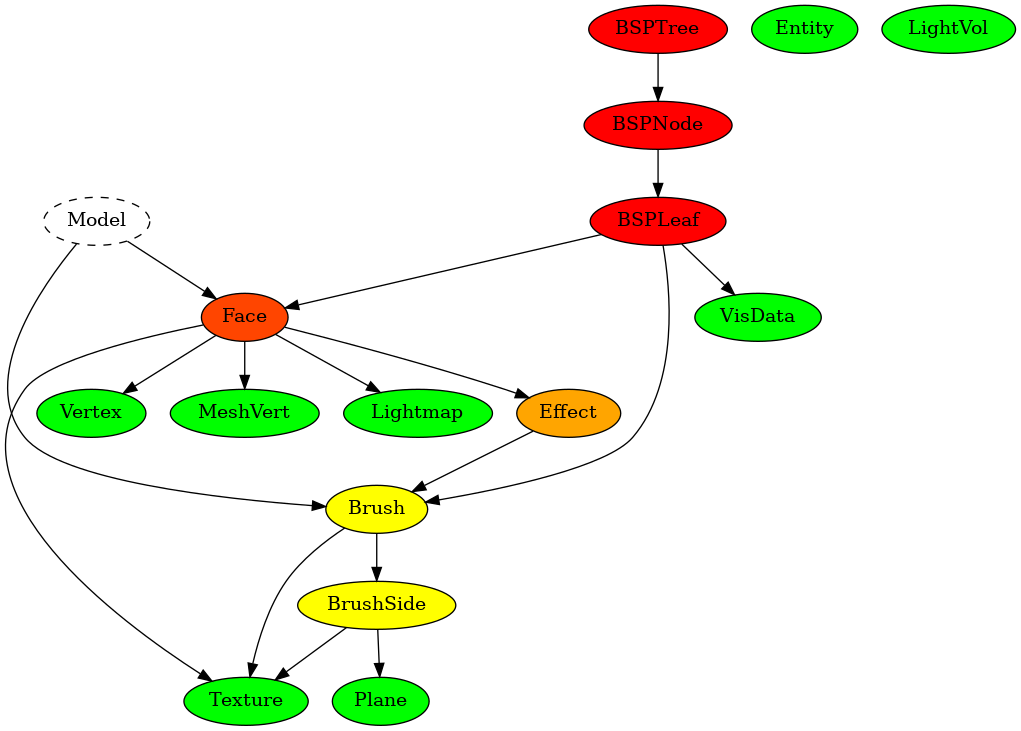
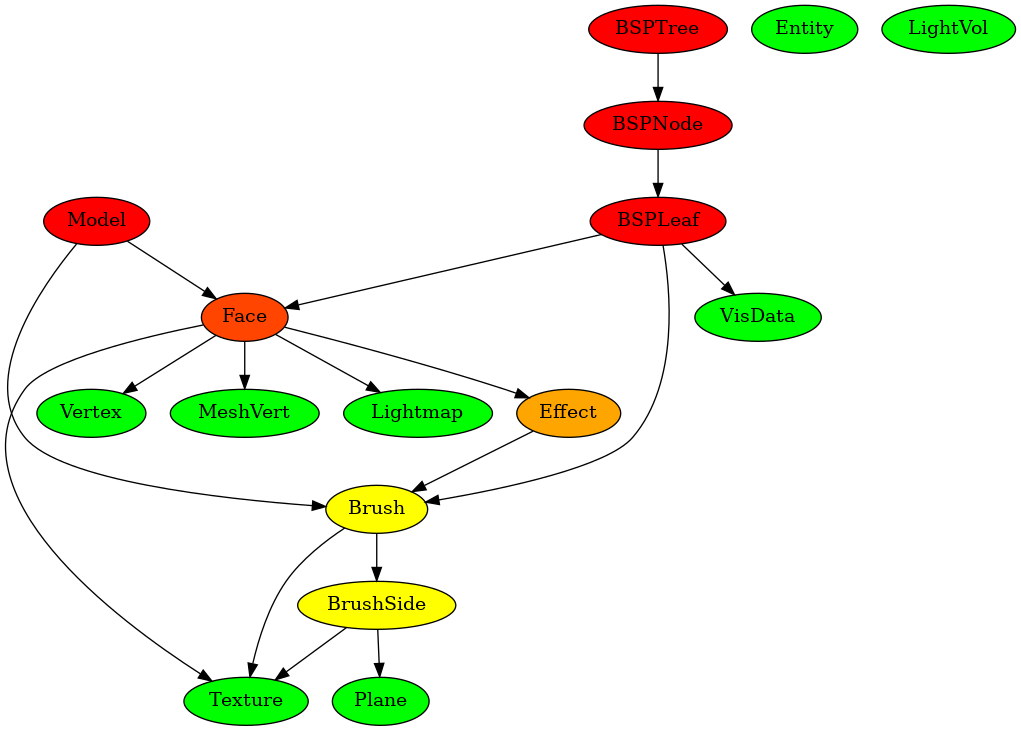
Add Model Lump parsing

Changed region(s): [[0.0304, 0.2709, 0.1518, 0.3611]]

diff --git a/src/lumps/models.rs b/src/lumps/models.rs
@@ -1,0 +1,90 @@
+// Copyright (C) 2019 Oscar Shrimpton
+// 
+// This file is part of rust_bsp.
+// 
+// rust_bsp is free software: you can redistribute it and/or modify
+// it under the terms of the GNU General Public License as published by
+// the Free Software Foundation, either version 3 of the License, or
+// (at your option) any later version.
+// 
+// rust_bsp is distributed in the hope that it will be useful,
+// but WITHOUT ANY WARRANTY; without even the implied warranty of
+// MERCHANTABILITY or FITNESS FOR A PARTICULAR PURPOSE.  See the
+// GNU General Public License for more details.
+// 
+// You should have received a copy of the GNU General Public License
+// along with rust_bsp.  If not, see <http://www.gnu.org/licenses/>.
+
+use super::faces::{Face, FaceLump};
+use super::brushes::{Brush, BrushesLump};
+use crate::types::{Vector3, Result, Error, TransparentNonNull};
+use super::helpers::slice_to_i32;
+
+const MODEL_SIZE: usize = (4 * 3 * 2) + (4 * 4);
+
+#[derive(Debug, Clone)]
+pub struct Model<'a> {
+    pub mins: Vector3,
+    pub maxs: Vector3,
+    pub faces: Box<[TransparentNonNull<Face<'a>>]>,
+    pub brushes: Box<[TransparentNonNull<Brush<'a>>]>
+}
+
+#[derive(Debug, Clone)]
+pub struct ModelsLump<'a> {
+    pub models: Box<[Model<'a>]>
+}
+
+impl<'a> ModelsLump<'a> {
+    pub fn from_lump(data: &'a [u8], faces_lump: &FaceLump<'a>, brushes_lump: &BrushesLump<'a>) -> Result<'a, ModelsLump<'a>> {
+        if data.len() % MODEL_SIZE != 0 {
+            return Err(Error::BadFormat);
+        }
+
+        let n_models = data.len() / MODEL_SIZE;
+        let mut models = Vec::with_capacity(n_models);
+        for n in 0..n_models {
+            let raw = &data[n * MODEL_SIZE..(n + 1) * MODEL_SIZE];
+
+            let mins = Vector3::from_slice(&raw[0..12]);
+            let maxs = Vector3::from_slice(&raw[12..24]);
+
+            let first_face = slice_to_i32(&raw[24..28]) as usize;
+            let n_faces = slice_to_i32(&raw[28..32]) as usize;
+
+            if first_face + n_faces > faces_lump.faces.len() {
+                return Err(Error::BadRef { loc: "Model.Face", val: n_faces });
+            }
+
+            let faces = (first_face..first_face + n_faces)
+                        .map(|x| TransparentNonNull::from(&faces_lump.faces[x]))
+                        .collect::<Vec<TransparentNonNull<Face>>>().into_boxed_slice();
+
+            let first_brush = slice_to_i32(&raw[24..28]) as usize;
+            let n_brushes = slice_to_i32(&raw[28..32]) as usize;
+
+            if first_brush + n_brushes > brushes_lump.brushes.len() {
+                return Err(Error::BadRef { loc: "Model.Brush", val: n_brushes });
+            }
+
+            let brushes = (first_brush..first_brush + n_brushes)
+                        .map(|x| TransparentNonNull::from(&brushes_lump.brushes[x]))
+                        .collect::<Vec<TransparentNonNull<Brush>>>().into_boxed_slice();
+
+            models.push(Model {
+                mins, maxs, faces, brushes
+            })
+
+        }
+
+        Ok(ModelsLump {
+            models: models.into_boxed_slice()
+        })
+    }
+
+    pub fn empty() -> ModelsLump<'static> {
+        ModelsLump {
+            models: vec![].into_boxed_slice()
+        }
+    }
+}

diff --git a/tests/models/mod.rs b/tests/models/mod.rs
@@ -1,0 +1,73 @@
+// Copyright (C) 2019 Oscar Shrimpton
+// 
+// This file is part of rust_bsp.
+// 
+// rust_bsp is free software: you can redistribute it and/or modify
+// it under the terms of the GNU General Public License as published by
+// the Free Software Foundation, either version 3 of the License, or
+// (at your option) any later version.
+// 
+// rust_bsp is distributed in the hope that it will be useful,
+// but WITHOUT ANY WARRANTY; without even the implied warranty of
+// MERCHANTABILITY or FITNESS FOR A PARTICULAR PURPOSE.  See the
+// GNU General Public License for more details.
+// 
+// You should have received a copy of the GNU General Public License
+// along with rust_bsp.  If not, see <http://www.gnu.org/licenses/>.
+
+use bsp::lumps::faces::{FaceLump, Face, FaceType};
+use bsp::lumps::brushes::{BrushesLump, Brush};
+use bsp::lumps::textures::{Texture, SurfaceFlags, ContentsFlags};
+use bsp::types::{IVector2, Vector3};
+use bsp::lumps::ModelsLump;
+
+#[test]
+fn test_models() {
+    let tex = Texture {
+        name: "test",
+        surface: SurfaceFlags::SKIP,
+        contents: ContentsFlags::SOLID
+    };
+    let faces = FaceLump {
+        faces: vec![
+            Face {
+                tex: (&tex).into(),
+                effect: None,
+                face_type: FaceType::Polygon,
+                vertices: vec![].into_boxed_slice(),
+                meshverts: vec![].into_boxed_slice(),
+                lightmap: None,
+                map_start: IVector2::zero(),
+                map_size: IVector2::zero(),
+                map_origin: Vector3::zero(),
+                map_vecs: [Vector3::zero(); 2],
+                normal: Vector3::zero(),
+                size: IVector2::zero()
+            }
+        ].into_boxed_slice()
+    };
+    let brushes = BrushesLump {
+        brushes: vec![
+            Brush {
+                sides: vec![].into_boxed_slice(),
+                texture: (&tex).into()
+            }
+        ].into_boxed_slice()
+    };
+
+    let data = include_bytes!("./test_models.bin");
+    let lump = ModelsLump::from_lump(data, &faces, &brushes, ).unwrap();
+
+    println!("{:?}", lump);
+
+    assert_eq!(lump.models.len(), 1);
+
+    assert_eq!(lump.models[0].mins, Vector3 { x: 1.0, y: 2.0, z: 3.0 });
+    assert_eq!(lump.models[0].maxs, Vector3 { x: 4.0, y: 5.0, z: 6.0 });
+
+    assert_eq!(lump.models[0].faces.len(), 1);
+    assert_eq!(*lump.models[0].faces[0], faces.faces[0]);
+
+    assert_eq!(lump.models[0].brushes.len(), 1);
+    assert_eq!(*lump.models[0].brushes[0], brushes.brushes[0]);
+}

diff --git a/src/lib.rs b/src/lib.rs
@@ -26,7 +26,7 @@ pub mod types;
 use std::pin::Pin;
 
 use directory::Header;
-use lumps::{BrushesLump, EntitiesLump, LightVolsLump, PlanesLump, TexturesLump, VerticesLump, MeshVertsLump, LightmapsLump, FaceLump, EffectsLump, BSPTree, VisDataLump};
+use lumps::{BrushesLump, EntitiesLump, LightVolsLump, PlanesLump, TexturesLump, VerticesLump, MeshVertsLump, LightmapsLump, FaceLump, EffectsLump, BSPTree, VisDataLump, ModelsLump};
 use types::{Error, Result};
 
 /// Represents a parsed BSP file.
@@ -44,7 +44,8 @@ pub struct BSPFile<'a> {
     pub effects: EffectsLump<'a>,
     pub faces: FaceLump<'a>,
     pub tree: BSPTree<'a>,
-    pub visdata: VisDataLump
+    pub visdata: VisDataLump,
+    pub models: ModelsLump<'a>
 }
 
 impl<'a> BSPFile<'a> {
@@ -85,7 +86,8 @@ impl<'a> BSPFile<'a> {
                     brushes: BrushesLump::empty(),
                     faces: FaceLump::empty(),
                     tree: BSPTree::empty(),
-                    visdata
+                    visdata,
+                    models: ModelsLump::empty()
                 });
 
                 // Then the next level is constructed
@@ -114,10 +116,13 @@ impl<'a> BSPFile<'a> {
 
                 // ---
                 let tree = BSPTree::from_lumps(header.get_lump(buf, 3), header.get_lump(buf, 4), &res.faces, &res.brushes)?;
+                let models = ModelsLump::from_lump(header.get_lump(buf, 7), &res.faces, &res.brushes)?;
 
                 unsafe {
                     let mut_ref = Pin::as_mut(&mut res);
-                    Pin::get_unchecked_mut(mut_ref).tree = tree;
+                    let unchecked = Pin::get_unchecked_mut(mut_ref);
+                    unchecked.tree = tree;
+                    unchecked.models = models;
                 }
 
                 Ok(res)

diff --git a/src/lumps/mod.rs b/src/lumps/mod.rs
@@ -29,6 +29,7 @@ pub mod textures;
 pub mod tree;
 pub mod vertices;
 pub mod visdata;
+pub mod models;
 
 pub use brushes::BrushesLump;
 pub use effects::EffectsLump;
@@ -40,3 +41,4 @@ pub use tree::BSPTree;
 pub use vertices::{MeshVertsLump, VerticesLump};
 pub use faces::FaceLump;
 pub use visdata::VisDataLump;
+pub use models::ModelsLump;

diff --git a/tests/mod.rs b/tests/mod.rs
@@ -23,3 +23,4 @@ mod effects;
 mod vertices;
 mod lightmaps;
 mod visdata;
+mod models;

diff --git a/README.md b/README.md
@@ -5,9 +5,6 @@ Library for reading `.bsp` files. Currently supports quake 3 bsps. Nightly.
 
 ![BSP File graph](structure.png?raw=true)
 
-# TODO
-    - Models
-
 # Contributing
 
 See [CONTRIBUTING.md](https://github.com/tcmal/rust-bsp/blob/master/CONTRIBUTING.md) for how to contribute.
